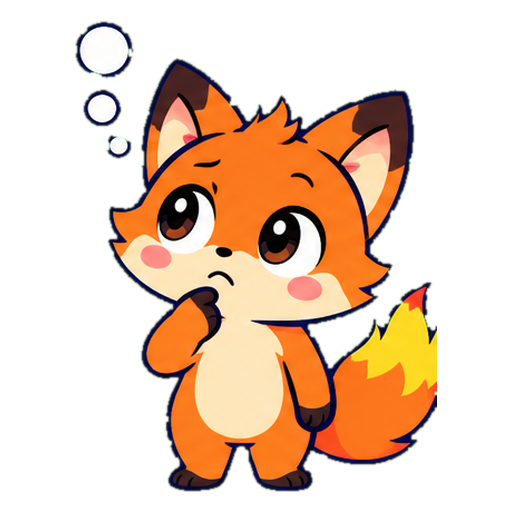
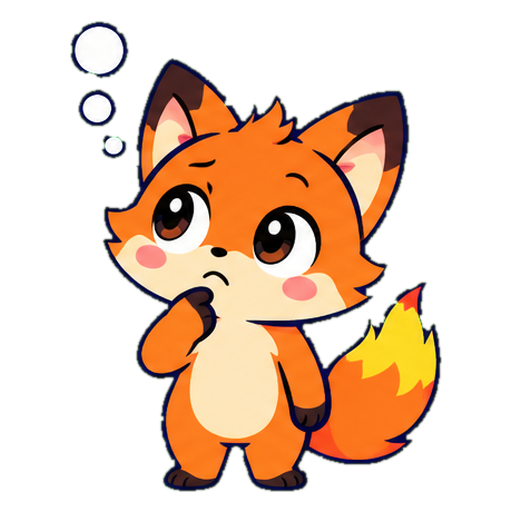
Buddies review fixes: Ember re-sliced (tails were cut by the grid), Nimbus happy extra sparkle removed, Bloop placeholder evolutions removed; slicer: --auto, clipped-cell warning, trapped-background removal; clean-sprite tool
- Ember: idle/think/sleep tails ran past the equal-grid line and were chopped; re-sliced with --auto
  (poses are found by their own outline). Trapped #FF00FF in 'happy' is cleared by the slicer now.
- Nimbus happy had 4 sparkles (3 requested): removed the lower-right one with scripts/clean-sprite.py
  (raw sheet keeps all 4: re-slicing needs the same clean-sprite step).
- Bloop: dropped my old placeholder stage2/stage3/mega drawings, they did not match the new art.

Claude-Session: https://claude.ai/code/session_0133zWQwaa4E5Ci73CrvhAff

Changed region(s): [[0.125, 0.0312, 0.875, 0.9688]]

diff --git a/src/buddies/generated.ts b/src/buddies/generated.ts
@@ -33,47 +33,6 @@ export const GENERATED: BuddyData[] = [
       sleep: require('../../assets/buddies/bloop/sleep.png'),
       sad: require('../../assets/buddies/bloop/sad.png'),
     },
-    forms: {
-      stage2: {
-        name: "Bloopa",
-        poses: {
-          idle: require('../../assets/buddies/bloop/stage2/idle.png'),
-          blink: require('../../assets/buddies/bloop/stage2/blink.png'),
-          talk: require('../../assets/buddies/bloop/stage2/talk.png'),
-          happy: require('../../assets/buddies/bloop/stage2/happy.png'),
-          think: require('../../assets/buddies/bloop/stage2/think.png'),
-          wait: require('../../assets/buddies/bloop/stage2/wait.png'),
-          sleep: require('../../assets/buddies/bloop/stage2/sleep.png'),
-          sad: require('../../assets/buddies/bloop/stage2/sad.png'),
-        },
-      },
-      stage3: {
-        name: "Tidalon",
-        poses: {
-          idle: require('../../assets/buddies/bloop/stage3/idle.png'),
-          blink: require('../../assets/buddies/bloop/stage3/blink.png'),
-          talk: require('../../assets/buddies/bloop/stage3/talk.png'),
-          happy: require('../../assets/buddies/bloop/stage3/happy.png'),
-          think: require('../../assets/buddies/bloop/stage3/think.png'),
-          wait: require('../../assets/buddies/bloop/stage3/wait.png'),
-          sleep: require('../../assets/buddies/bloop/stage3/sleep.png'),
-          sad: require('../../assets/buddies/bloop/stage3/sad.png'),
-        },
-      },
-      mega: {
-        name: "Mega Tidalon",
-        poses: {
-          idle: require('../../assets/buddies/bloop/mega/idle.png'),
-          blink: require('../../assets/buddies/bloop/mega/blink.png'),
-          talk: require('../../assets/buddies/bloop/mega/talk.png'),
-          happy: require('../../assets/buddies/bloop/mega/happy.png'),
-          think: require('../../assets/buddies/bloop/mega/think.png'),
-          wait: require('../../assets/buddies/bloop/mega/wait.png'),
-          sleep: require('../../assets/buddies/bloop/mega/sleep.png'),
-          sad: require('../../assets/buddies/bloop/mega/sad.png'),
-        },
-      },
-    },
   },
   {
     id: "ember",

diff --git a/scripts/slice-sheet.py b/scripts/slice-sheet.py
@@ -12,6 +12,7 @@ Turns a character sheet (a grid of poses, e.g. made with ChatGPT) into the buddy
                              sheet is already transparent
   --tolerance 48             how different from the background a pixel must be to count as the character
   --erase-shadow             also remove soft drop shadows under the character
+  --auto                     find poses by their own outline (use when a tail/arm crosses a grid line)
   --inset 8                  pixels to ignore at the edge of each cell (grid lines, neighbours)
   --size 512                 output size of each pose
   --form stage2|stage3|mega  write an evolved form into <id>/<form>/ (the base buddy must already exist)
@@ -79,6 +80,10 @@ def cut_background(cell, bg, tol, erase_shadow=False):
             if marked.getpixel((x, y)) == 255:
                 ImageDraw.floodfill(marked, (x, y), 128)
     alpha = marked.point(lambda v: 0 if v == 128 else 255)
+    # background trapped inside the picture (between an arm and a tail, inside a ring...) is not reached by the flood
+    # from the border: clear pixels that are almost exactly the background colour wherever they are
+    exact = maxdiff.point(lambda v: 0 if v <= max(10, tol * 2 // 3) else 255)
+    alpha = ImageChops.multiply(alpha, exact)
     alpha = alpha.filter(ImageFilter.MinFilter(3)).filter(ImageFilter.GaussianBlur(0.8))
     out = rgb.convert("RGBA")
     out.putalpha(alpha)
@@ -94,6 +99,64 @@ def cut_background(cell, bg, tol, erase_shadow=False):
     return out
 
 
+def auto_cells(sheet, bg, tol, n, cols, rows):
+    """Finds each pose by its own outline instead of a rigid grid, so a tail or an arm that crosses the grid line is
+    kept whole. Returns [(box, mask)] in reading order, or None when it cannot tell exactly n poses apart."""
+    from collections import deque
+    S = 4  # work on a quarter-size picture
+    small = sheet.convert("RGB").resize((sheet.width // S, sheet.height // S), Image.BOX)
+    diff = ImageChops.difference(small, Image.new("RGB", small.size, bg))
+    r, g, b = diff.split()
+    fg = ImageChops.lighter(ImageChops.lighter(r, g), b).point(lambda v: 255 if v > tol else 0)
+    w, h = fg.size
+    for radius in range(3, 30):  # grow the shapes until the props join their character and nothing else joins
+        grown = fg.filter(ImageFilter.MaxFilter(2 * radius + 1))
+        gp = grown.load()
+        seen = [[False] * w for _ in range(h)]
+        found = []
+        for y in range(h):
+            for x in range(w):
+                if gp[x, y] and not seen[y][x]:
+                    q = deque([(x, y)])
+                    seen[y][x] = True
+                    pts = []
+                    while q:
+                        cx, cy = q.popleft()
+                        pts.append((cx, cy))
+                        for nx, ny in ((cx + 1, cy), (cx - 1, cy), (cx, cy + 1), (cx, cy - 1)):
+                            if 0 <= nx < w and 0 <= ny < h and gp[nx, ny] and not seen[ny][nx]:
+                                seen[ny][nx] = True
+                                q.append((nx, ny))
+                    if len(pts) > 40:  # ignore specks
+                        found.append(pts)
+        if len(found) == n:
+            break
+        if len(found) < n:
+            return None
+    else:
+        return None
+    items = []
+    for pts in found:
+        xs = [p[0] for p in pts]
+        ys = [p[1] for p in pts]
+        m = Image.new("L", (w, h), 0)
+        mp = m.load()
+        for (x, y) in pts:
+            mp[x, y] = 255
+        items.append(((min(xs) + max(xs)) / 2, (min(ys) + max(ys)) / 2, (min(xs), min(ys), max(xs) + 1, max(ys) + 1), m))
+    items.sort(key=lambda it: it[1])
+    ordered = []
+    for r_i in range(rows):  # split into rows by height, each row left to right
+        row = sorted(items[r_i * cols:(r_i + 1) * cols], key=lambda it: it[0])
+        ordered.extend(row)
+    out = []
+    for cx, cy, (x0, y0, x1, y1), m in ordered:
+        pad = 4
+        box = (max(0, (x0 - pad) * S), max(0, (y0 - pad) * S), min(sheet.width, (x1 + pad) * S), min(sheet.height, (y1 + pad) * S))
+        out.append((box, m.resize((w * S, h * S), Image.NEAREST).crop(box)))
+    return out
+
+
 def prepare(cell, pose, a, index):
     """Background removal + tight crop for one pose image."""
     if is_transparent(cell):
@@ -101,7 +164,17 @@ def prepare(cell, pose, a, index):
     else:
         bg = corner_color(cell) if a.bg == "auto" else parse_color(a.bg)
         out = cut_background(cell, bg, a.tolerance, a.erase_shadow)
-    box = out.getchannel("A").point(lambda v: 255 if v > 24 else 0).getbbox()
+    alpha_ch = out.getchannel("A")
+    aw, ah = alpha_ch.size
+    ap = alpha_ch.load()
+    touching = [side for side, pts in (
+        ("left", ((0, y) for y in range(ah))), ("right", ((aw - 1, y) for y in range(ah))),
+        ("top", ((x, 0) for x in range(aw))), ("bottom", ((x, ah - 1) for x in range(aw))))
+        if sum(1 for pt in pts if ap[pt] > 24) >= 8]  # a real run of picture on the edge, not one stray pixel
+    if touching and index is not None:
+        print("WARNING: %s touches the %s edge of its cell: it is probably CUT OFF. Regenerate the sheet with more empty "
+              "margin around each pose." % ("cell %d (%s)" % (index + 1, pose), " and ".join(touching)))
+    box = alpha_ch.point(lambda v: 255 if v > 24 else 0).getbbox()
     if not box:
         where = "cell %d (%s)" % (index + 1, pose) if index is not None else pose
         sys.exit("%s is empty: check --cols/--rows or --tolerance" % where)
@@ -123,6 +196,7 @@ def main():
     ap.add_argument("--erase-shadow", action="store_true", help="also remove soft shadows (darker versions of the background colour)")
     ap.add_argument("--inset", type=int, default=8)
     ap.add_argument("--size", type=int, default=512)
+    ap.add_argument("--auto", action="store_true", help="find each pose by its own outline instead of an equal grid (fixes tails/arms that cross a grid line)")
     ap.add_argument("--form", choices=["stage2", "stage3", "mega"], default="")
     ap.add_argument("--form-name", default="")
     ap.add_argument("--out", default=os.path.join(os.path.dirname(__file__), "..", "assets", "buddies"))
@@ -145,7 +219,20 @@ def main():
         W, H = sheet.size
         cw, ch = W // a.cols, H // a.rows
         print("sheet %dx%d, cells %dx%d" % (W, H, cw, ch))
+        auto = None
+        if a.auto:
+            bgc = corner_color(sheet) if a.bg == "auto" else parse_color(a.bg)
+            auto = auto_cells(sheet, bgc, a.tolerance, len(poses), a.cols, a.rows)
+            print("auto: found %s poses by outline" % ("all %d" % len(poses) if auto else "NOT all"))
         for i, pose in enumerate(poses):
+            if auto:
+                (box, mask) = auto[i]
+                cell = sheet.crop(box)
+                bgc = corner_color(sheet) if a.bg == "auto" else parse_color(a.bg)
+                flat = Image.new("RGBA", cell.size, bgc + (255,))
+                flat.paste(cell, (0, 0), mask)  # only this pose's own pixels; a neighbour's bleed becomes background
+                cut[pose] = prepare(flat, pose, a, i)
+                continue
             x, y = (i % a.cols) * cw, (i // a.cols) * ch
             cell = sheet.crop((x + a.inset, y + a.inset, x + cw - a.inset, y + ch - a.inset))
             cut[pose] = prepare(cell, pose, a, i)

diff --git a/scripts/clean-sprite.py b/scripts/clean-sprite.py
@@ -1,0 +1,113 @@
+#!/usr/bin/env python3
+"""Small, repeatable touch-ups for a finished buddy pose PNG (edited in place; git keeps the original).
+
+  python3 scripts/clean-sprite.py assets/buddies/ember/happy.png --erase-magenta
+        removes leftover #FF00FF background that was trapped inside the picture (e.g. between an arm and a tail)
+  python3 scripts/clean-sprite.py assets/buddies/nimbus/happy.png --list
+        lists the separate pieces of the picture (body, sparkles, bubbles...) with their boxes
+  python3 scripts/clean-sprite.py assets/buddies/nimbus/happy.png --remove-at 466,218
+        deletes the separate piece that contains (or is nearest to) that pixel, e.g. one sparkle too many
+"""
+import argparse
+import sys
+from collections import deque
+
+from PIL import Image, ImageFilter
+
+
+def components(alpha, thresh=24):
+    w, h = alpha.size
+    px = alpha.load()
+    seen = [[False] * w for _ in range(h)]
+    out = []
+    for y in range(h):
+        for x in range(w):
+            if px[x, y] > thresh and not seen[y][x]:
+                q = deque([(x, y)])
+                seen[y][x] = True
+                pts = []
+                while q:
+                    cx, cy = q.popleft()
+                    pts.append((cx, cy))
+                    for dx in (-1, 0, 1):
+                        for dy in (-1, 0, 1):
+                            nx, ny = cx + dx, cy + dy
+                            if 0 <= nx < w and 0 <= ny < h and not seen[ny][nx] and px[nx, ny] > thresh:
+                                seen[ny][nx] = True
+                                q.append((nx, ny))
+                xs = [p[0] for p in pts]
+                ys = [p[1] for p in pts]
+                out.append({"n": len(pts), "box": (min(xs), min(ys), max(xs), max(ys)), "pts": pts})
+    out.sort(key=lambda c: -c["n"])
+    return out
+
+
+def is_magenta(r, g, b, loose=False):
+    if loose:  # a semi-transparent rim that is mostly magenta
+        return r > 150 and b > 120 and g < 140 and (r - g) > 50 and (b - g) > 40
+    return r > 170 and b > 150 and g < 110 and (r - g) > 80 and (b - g) > 60
+
+
+def main():
+    ap = argparse.ArgumentParser(description=__doc__, formatter_class=argparse.RawDescriptionHelpFormatter)
+    ap.add_argument("png")
+    ap.add_argument("--erase-magenta", action="store_true")
+    ap.add_argument("--list", action="store_true")
+    ap.add_argument("--remove-at", default="", help="x,y of a pixel of the piece to delete")
+    a = ap.parse_args()
+
+    im = Image.open(a.png).convert("RGBA")
+    if a.list:
+        for i, c in enumerate(components(im.getchannel("A"))):
+            print("piece %d: %6d px  box %s" % (i, c["n"], c["box"]))
+        return
+
+    changed = 0
+    px = im.load()
+    w, h = im.size
+    if a.erase_magenta:
+        for y in range(h):
+            for x in range(w):
+                r, g, b, al = px[x, y]
+                if al and is_magenta(r, g, b, loose=al < 255):
+                    px[x, y] = (r, g, b, 0)
+                    changed += 1
+        # one more pass for the soft edge next to what was removed
+        for y in range(1, h - 1):
+            for x in range(1, w - 1):
+                r, g, b, al = px[x, y]
+                if 0 < al < 255 and is_magenta(r, g, b, loose=True):
+                    px[x, y] = (r, g, b, 0)
+                    changed += 1
+    if a.remove_at:
+        x0, y0 = (int(v) for v in a.remove_at.split(","))
+        comps = components(im.getchannel("A"))
+        best, bd = None, 1e9
+        for c in comps:
+            for (x, y) in c["pts"][:: max(1, len(c["pts"]) // 400)]:
+                d = (x - x0) ** 2 + (y - y0) ** 2
+                if d < bd:
+                    best, bd = c, d
+        if best is None or bd > 40 ** 2:
+            sys.exit("nothing near %s" % a.remove_at)
+        if best is comps[0]:
+            sys.exit("that is the main body, not a separate piece; refusing")
+        mask = Image.new("L", im.size, 0)
+        mp = mask.load()
+        for (x, y) in best["pts"]:
+            mp[x, y] = 255
+        mask = mask.filter(ImageFilter.MaxFilter(7))  # also the soft edge around it
+        for y in range(h):
+            for x in range(w):
+                if mp[x, y]:
+                    r, g, b, _ = px[x, y]
+                    if (r, g, b, _) != (0, 0, 0, 0):
+                        px[x, y] = (r, g, b, 0)
+                        changed += 1
+        print("removed piece with box", best["box"])
+    im.save(a.png)
+    print("%s: %d pixels cleared" % (a.png, changed))
+
+
+if __name__ == "__main__":
+    main()
